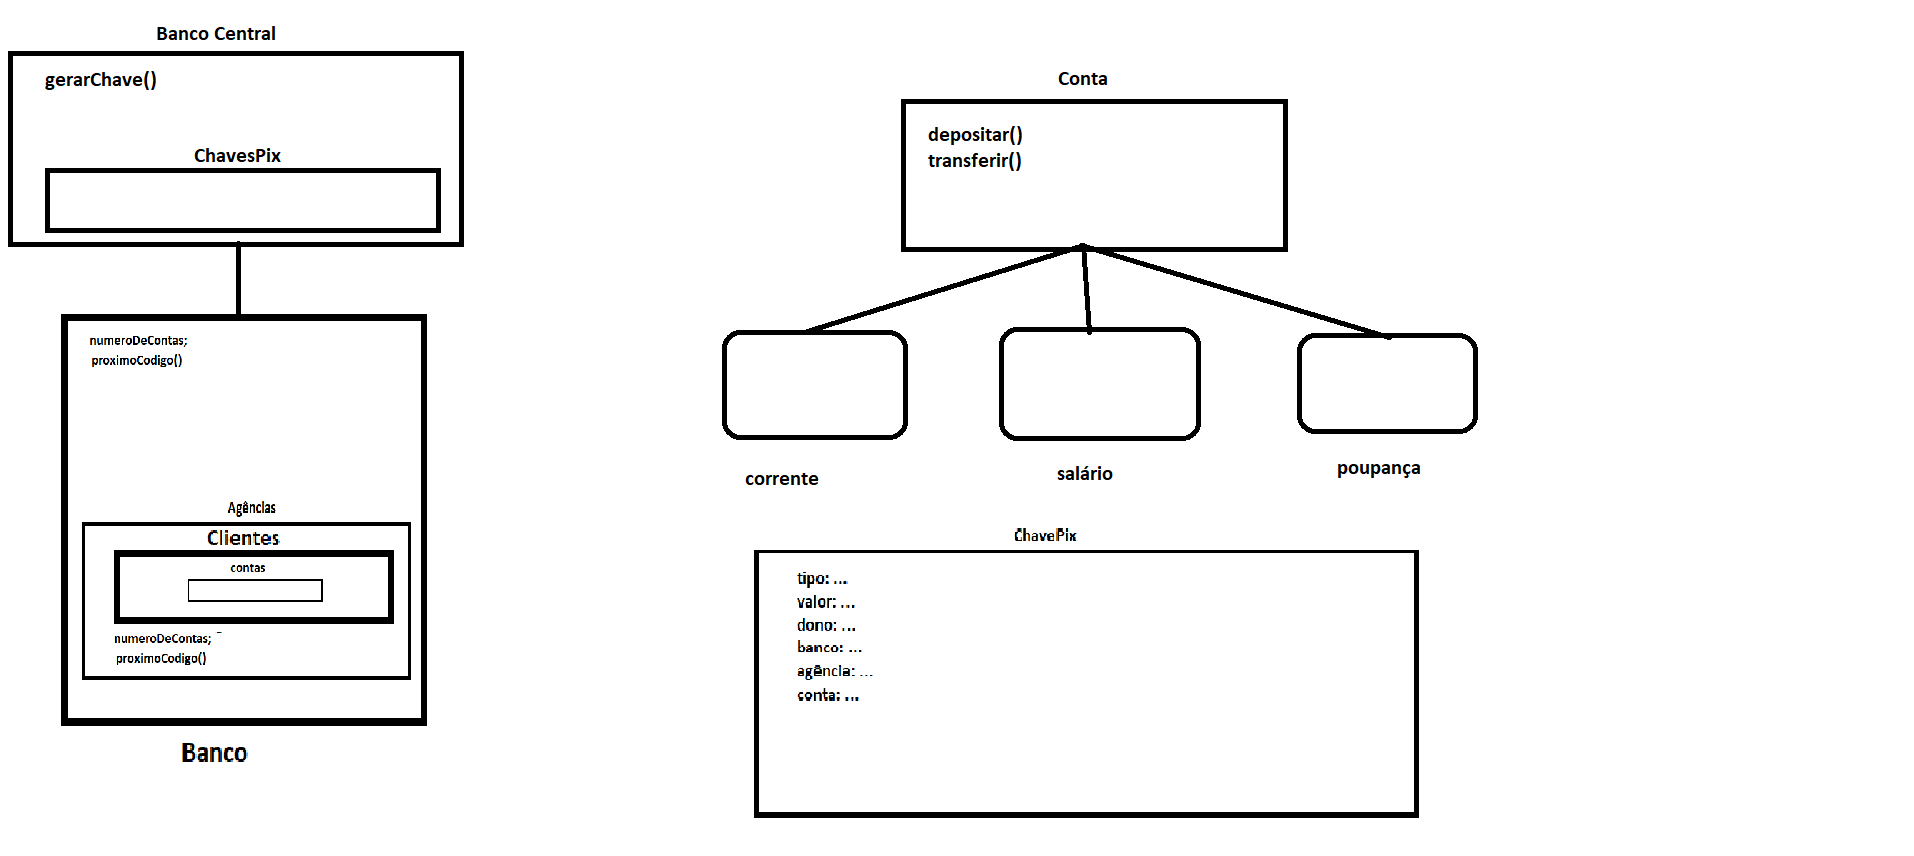
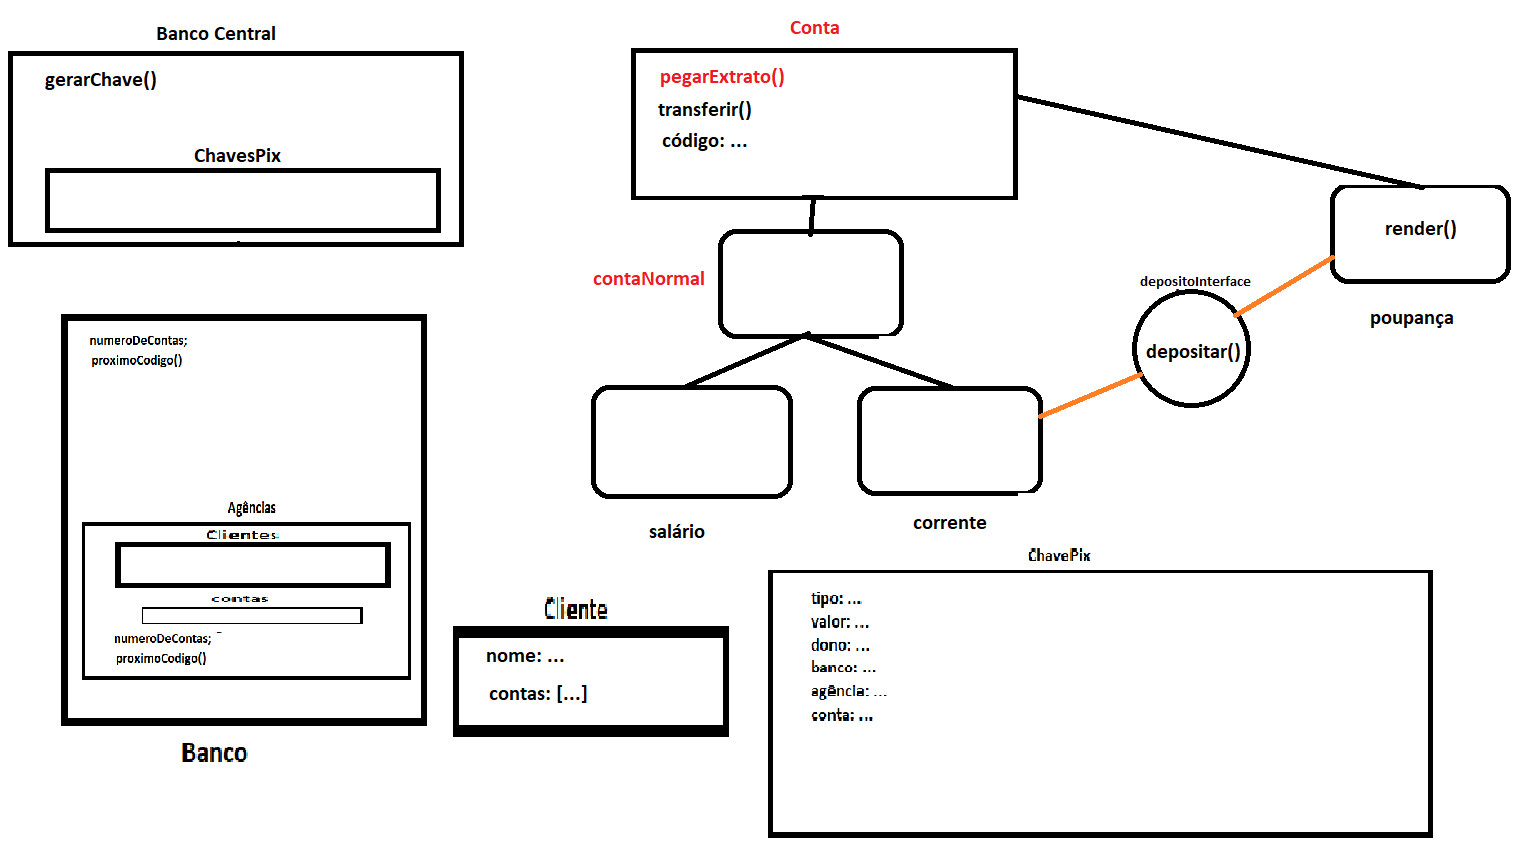
adicionar classes

diff --git a/src/account/DepositAccount.java b/src/account/DepositAccount.java
@@ -1,0 +1,4 @@
+package account;
+
+public interface DepositAccount {
+}

diff --git a/src/account/RegularAccount.java b/src/account/RegularAccount.java
@@ -1,0 +1,4 @@
+package account;
+
+public class RegularAccount {
+}

diff --git a/src/account/SalaryAccount.java b/src/account/SalaryAccount.java
@@ -1,0 +1,4 @@
+package account;
+
+public class SalaryAccount {
+}

diff --git a/src/account/SavingAccount.java b/src/account/SavingAccount.java
@@ -1,0 +1,4 @@
+package account;
+
+public class SavingAccount {
+}

diff --git a/src/bank/CentralBank.java b/src/bank/CentralBank.java
@@ -1,0 +1,4 @@
+package bank;
+
+public class CentralBank {
+}

diff --git a/src/account/Account.java b/src/account/Account.java
@@ -1,0 +1,4 @@
+package account;
+
+public class Account {
+}

diff --git a/src/bank/Agency.java b/src/bank/Agency.java
@@ -1,0 +1,4 @@
+package bank;
+
+public class Agency {
+}

diff --git a/src/bank/Client.java b/src/bank/Client.java
@@ -1,0 +1,4 @@
+package bank;
+
+public class Client {
+}

diff --git a/src/bank/PixKey.java b/src/bank/PixKey.java
@@ -1,0 +1,4 @@
+package bank;
+
+public class PixKey {
+}

diff --git a/src/bank/Bank.java b/src/bank/Bank.java
@@ -1,0 +1,4 @@
+package bank;
+
+public class Bank {
+}

diff --git a/src/Main.java b/src/Main.java
@@ -1,0 +1,2 @@
+public class Main {
+}
